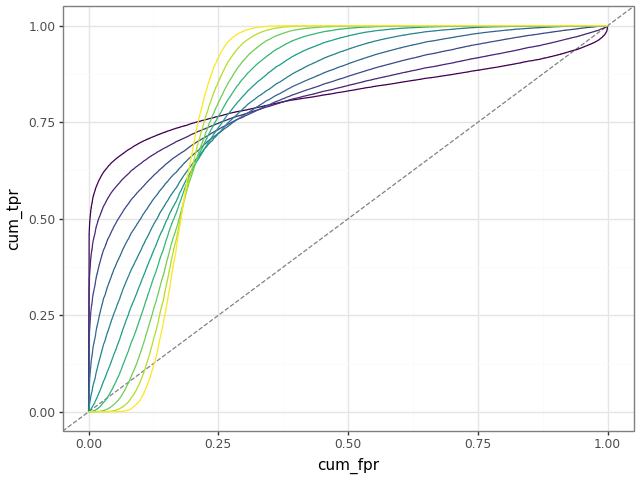
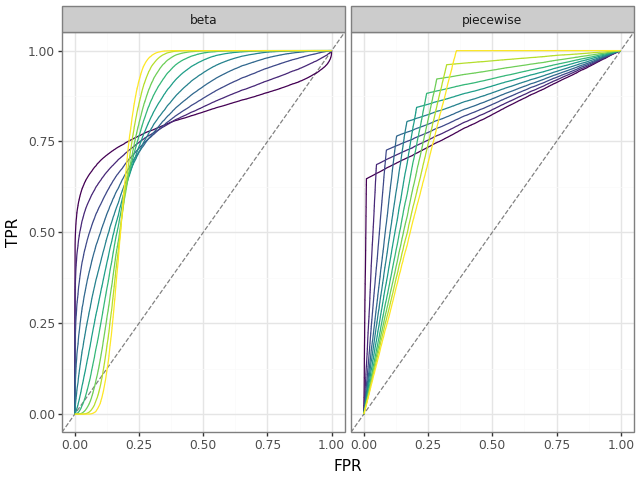
fully refactor after upgrading to object interface

diff --git a/src/roctet/curves.py b/src/roctet/curves.py
@@ -14,7 +14,7 @@ class CurveShaper(ABC):
     curve as a `polars.DataFrame` with columns `fpr` and `tpr`.
 
     Responsibilities of subclasses:
-    - implement `get_control_range(auroc)` (staticmethod) which returns the
+    - implement `control_range()` (property) which returns the
       allowable range for the `control` parameter given a target `auroc`.
     - implement `derive_params()` to compute the internal parameters that
       fully describe the underlying shape for the chosen parameterization.
@@ -22,34 +22,53 @@ class CurveShaper(ABC):
       as a `polars.DataFrame` with `fpr` and `tpr` columns.
 
     Args:
-        auroc (float): Target area under the ROC curve. Must be in [0, 1].
-        control (float): Shape control parameter. Valid range depends on the
-            concrete subclass and should be validated by calling
-            `get_control_range(auroc)`.
+        auroc (float): Target area under the ROC curve. Must be in (0, 1).
+        control_transform (Callable[[float], float]): Function to transform control parameter.
     """
 
-    def __init__(self, auroc: float) -> None:
-        if auroc > 1 or auroc < 0:
+    def __init__(self, auroc: float, control_transform: Callable[[float], float]) -> None:
+        if auroc >= 1 or auroc <= 0:
             raise ValueError(f"Invalid `auroc` ({auroc}). Must be in (0,1).")
         self.auroc = auroc
-        range = self.get_control_range()
-        self.control = (range[0]+range[1]) / 2
+        self.control_transform = control_transform
+        control_range = self.control_range
+        self.control = (control_range[0]+control_range[1]) / 2
+
+    def _validate_control(self, control: float) -> float:
+        """Internal helper to confirm user-provided control or revert to class default
+
+        Args:
+            control (float): User-provided input value for control 
+
+        Raises:
+            ValueError: Triggered on invalid control values based on AUC and curve-imposed constraints
+
+        Returns:
+            float: The control value to use for downstream processing
+        """
+        if control is None:
+            return self.control
+        control_range = self.control_range
+        if control < control_range[0] or control > control_range[1]:
+            raise ValueError(f"Invalid `control` ({control}). Must be in {control_range}")
+        return control 
 
     @property
     @abstractmethod
-    def get_control_range() -> tuple[float, float]:
-        """Return (min, max) allowable `control` values for the given `auroc`."""
+    def control_gen_range(self) -> tuple[float, float]:
+        """Return (min, max) allowable pre-transformation `control` values for the given `auroc`."""
 
-    @staticmethod
-    @abstractmethod
-    def get_control_transform() -> Callable[[str], bool]:
-        """Returns function that transforms the range of the control."""
+    @property
+    def control_range(self) -> tuple[float, float]:
+        """Return (min, max) allowable `control` values for the given `auroc`."""
+        crg = self.control_gen_range
+        return (self.control_transform(crg[0]), self.control_transform(crg[1]))
 
     @abstractmethod
     def derive_params(self, control: float = None) -> dict[str, float]:
         """Derive internal parameters from `auroc` and `control`.
 
-        Returns a tuple of floats representing the parameters that uniquely
+        Returns a dict of floats representing the parameters that uniquely
         specify the curve shape for the concrete parameterization.
         """
 
@@ -64,9 +83,9 @@ class CurveShaper(ABC):
 
     def gen_rocs(self, n_bin: int, n_sets: int) -> list[pl.DataFrame]:
 
-        control_rng = self.get_control_range()
-        control_trn = self.__class__.get_control_transform()
-        controls = [control_trn(x) for x in np.linspace(control_rng[0],control_rng[1],n_sets)]
+        cgr = self.control_gen_range
+        control_trn = self.control_transform
+        controls = [control_trn(x) for x in np.linspace(cgr[0],cgr[1],n_sets)]
         curves = [self.gen_roc(n_bin, c) for c in controls]
         return curves
 
@@ -86,26 +105,23 @@ class CurveBeta(CurveShaper):
     """
 
     def __init__(self, auroc: float) -> None:
-        super().__init__(auroc)
+        super().__init__(auroc, lambda x: 2**x)
 
-    def get_control_range(auroc: float | None = None) -> tuple[float, float]:
+    @property
+    def control_gen_range(self) -> tuple[float, float]:
         """Return allowed range for `control` for the beta parameterization.
 
         This is a simple heuristic range used by the original implementation.
         """
         return (-1,6)
 
-    def get_control_transform() -> Callable[[float], float]:
-        """Returns function that transforms the range of the control."""
-        return lambda x: 2**x
-
     def derive_params(self, control: float = None) -> dict[str, float]:
         """Derive Beta distribution parameters `(a, b)`.
 
         Returns:
-            tuple[float, float]: `(alpha, beta)` parameters for the Beta CDF.
+            dict[str, float]: `(alpha, beta)` parameters for the Beta CDF.
         """
-        control = control or self.control
+        control = self._validate_control(control)
         b = self.auroc * control
         a = control - b
         return {'a': a, 'b': b}
@@ -122,7 +138,7 @@ class CurveBeta(CurveShaper):
         Returns:
             polars.DataFrame: DataFrame with columns `fpr` and `tpr`.
         """
-        control = control or self.control
+        control = self._validate_control(control)
         params = self.derive_params(control)
         a,b = params.values()
         if n_bin < 1:
@@ -149,9 +165,10 @@ class CurvePiecewise(CurveShaper):
     """
 
     def __init__(self, auroc: float) -> None:
-        super().__init__(auroc)
+        super().__init__(auroc, lambda x:x)
 
-    def get_control_range(self) -> tuple[float, float]:
+    @property
+    def control_gen_range(self) -> tuple[float, float]:
         """Return allowable `control` range for the piecewise parameterization.
 
         The heuristic enforces a small epsilon away from 0 and 1 and ensures the
@@ -161,18 +178,14 @@ class CurvePiecewise(CurveShaper):
         control_max = min(0.99,2-2*self.auroc)
         return (control_min, control_max)
 
-    def get_control_transform() -> Callable[[float], float]:
-        """Returns function that transforms the range of the control."""
-        return lambda x: x
-
     def derive_params(self, control: float = None) -> dict[str, float]:
         """Derive the inflection point `(x, y)` for the trapezoid curve.
 
         Returns:
-            tuple[float, float]: `(x, y)` where `x` is the inflection x-coordinate
+            dict[str, float]: `(x, y)` where `x` is the inflection x-coordinate
             (distance along the x axis) and `y` is the corresponding height.
         """
-        control = control or self.control
+        control = self._validate_control(control)
         x = control
         y = 2*self.auroc + x - 1
         return {'x': x, 'y': y}
@@ -184,12 +197,12 @@ class CurvePiecewise(CurveShaper):
             n_bin (int): Number of points to output. Must be >= 1.
 
         Raises:
-            ValueError: If `a` or `b` are out of [0,1] or if `n_bin < 1`.
+            ValueError: If `n_bin < 1`.
 
         Returns:
             polars.DataFrame: DataFrame with `fpr` and `tpr`.
         """
-        control = control or self.control
+        control = self._validate_control(control)
         params = self.derive_params(control)
         x,y = params.values()
         if n_bin < 1:

diff --git a/src/roctet/utils.py b/src/roctet/utils.py
@@ -1,7 +1,6 @@
 import numpy as np
 from scipy.stats import rankdata
 
-
 def auroc(y_true: np.ndarray, y_pred: np.ndarray) -> float:
     """Compute AUC using Mann-Whitney U Statistics
 
@@ -26,3 +25,4 @@ def auroc(y_true: np.ndarray, y_pred: np.ndarray) -> float:
     auc = (rank_sum_pos - n_pos * (n_pos + 1) / 2) / (n_pos * n_neg)
 
     return round(auc.item(), 4)
+    